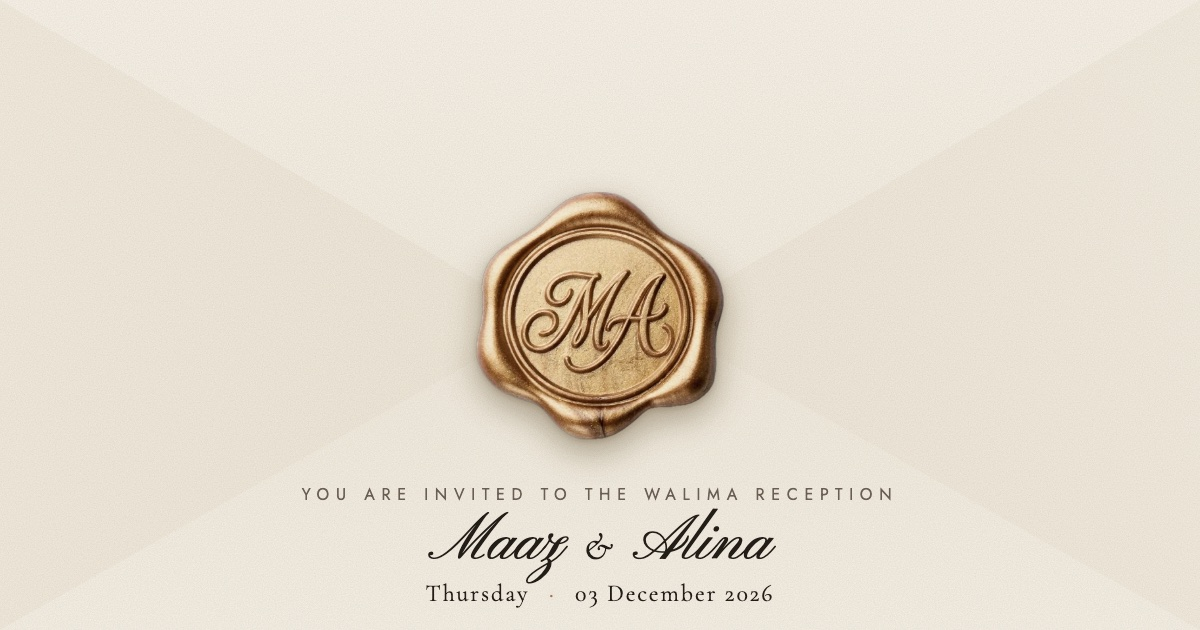
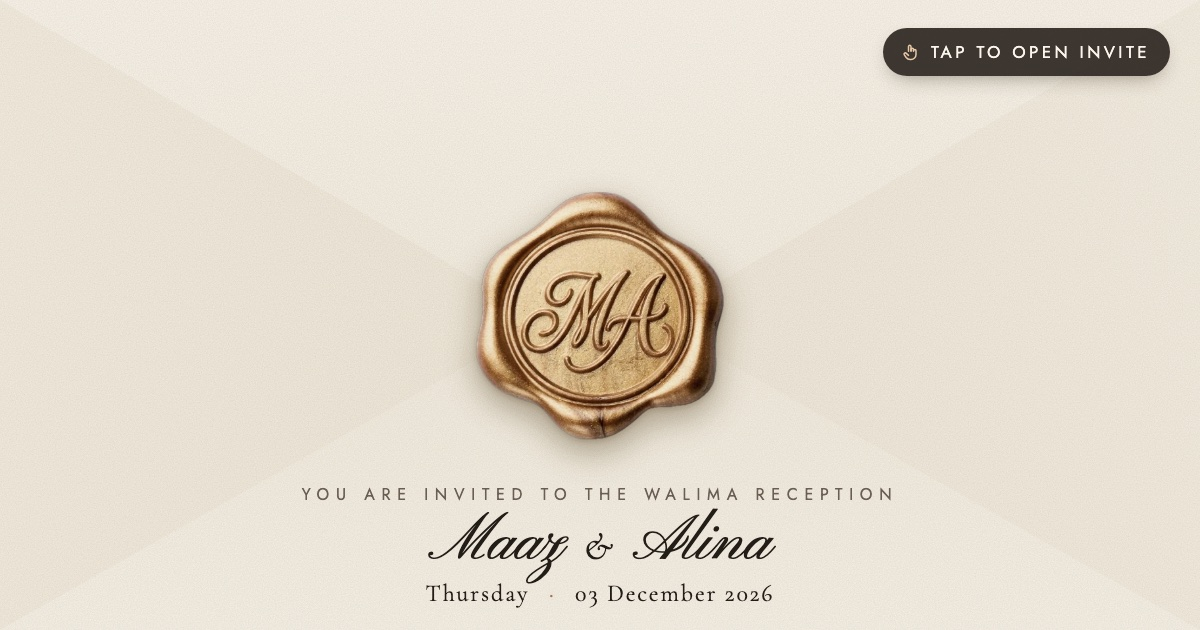
Add "Tap to open invite" to the WhatsApp preview cards

Changed region(s): [[0.7092, 0.0302, 0.9867, 0.1508]]

diff --git a/index.html b/index.html
@@ -10,7 +10,7 @@
   <meta property="og:url" content="https://maaz-alina.vercel.app/">
   <meta property="og:title" content="Maaz &amp; Alina · You are invited">
   <meta property="og:description" content="Wedding Ceremony · Tuesday 01 December &amp; Walima Reception · Thursday 03 December 2026. Tap to open your invitation.">
-  <meta property="og:image" content="https://maaz-alina.vercel.app/assets/img/og.jpg?v=20261103030518">
+  <meta property="og:image" content="https://maaz-alina.vercel.app/assets/img/og.jpg?v=3">
   <meta property="og:image:type" content="image/jpeg">
   <meta property="og:image:width" content="1200">
   <meta property="og:image:height" content="630">

diff --git a/barat-Akfarm-01/index.html b/barat-Akfarm-01/index.html
@@ -10,7 +10,7 @@
   <meta property="og:url" content="https://maaz-alina.vercel.app/barat-Akfarm-01/">
   <meta property="og:title" content="Maaz &amp; Alina · Wedding Ceremony">
   <meta property="og:description" content="Tuesday, 01 December 2026 · AK Farmhouse and Events, Lahore. Tap to open your invitation.">
-  <meta property="og:image" content="https://maaz-alina.vercel.app/assets/img/og-barat.jpg?v=20261103030518">
+  <meta property="og:image" content="https://maaz-alina.vercel.app/assets/img/og-barat.jpg?v=3">
   <meta property="og:image:type" content="image/jpeg">
   <meta property="og:image:width" content="1200">
   <meta property="og:image:height" content="630">

diff --git a/walima-zainab-03/index.html b/walima-zainab-03/index.html
@@ -10,7 +10,7 @@
   <meta property="og:url" content="https://maaz-alina.vercel.app/walima-zainab-03/">
   <meta property="og:title" content="Maaz &amp; Alina · Walima Reception">
   <meta property="og:description" content="Thursday, 03 December 2026 · Zainab Marquee, Khanpur. Tap to open your invitation.">
-  <meta property="og:image" content="https://maaz-alina.vercel.app/assets/img/og-walima.jpg?v=20261103030518">
+  <meta property="og:image" content="https://maaz-alina.vercel.app/assets/img/og-walima.jpg?v=3">
   <meta property="og:image:type" content="image/jpeg">
   <meta property="og:image:width" content="1200">
   <meta property="og:image:height" content="630">
